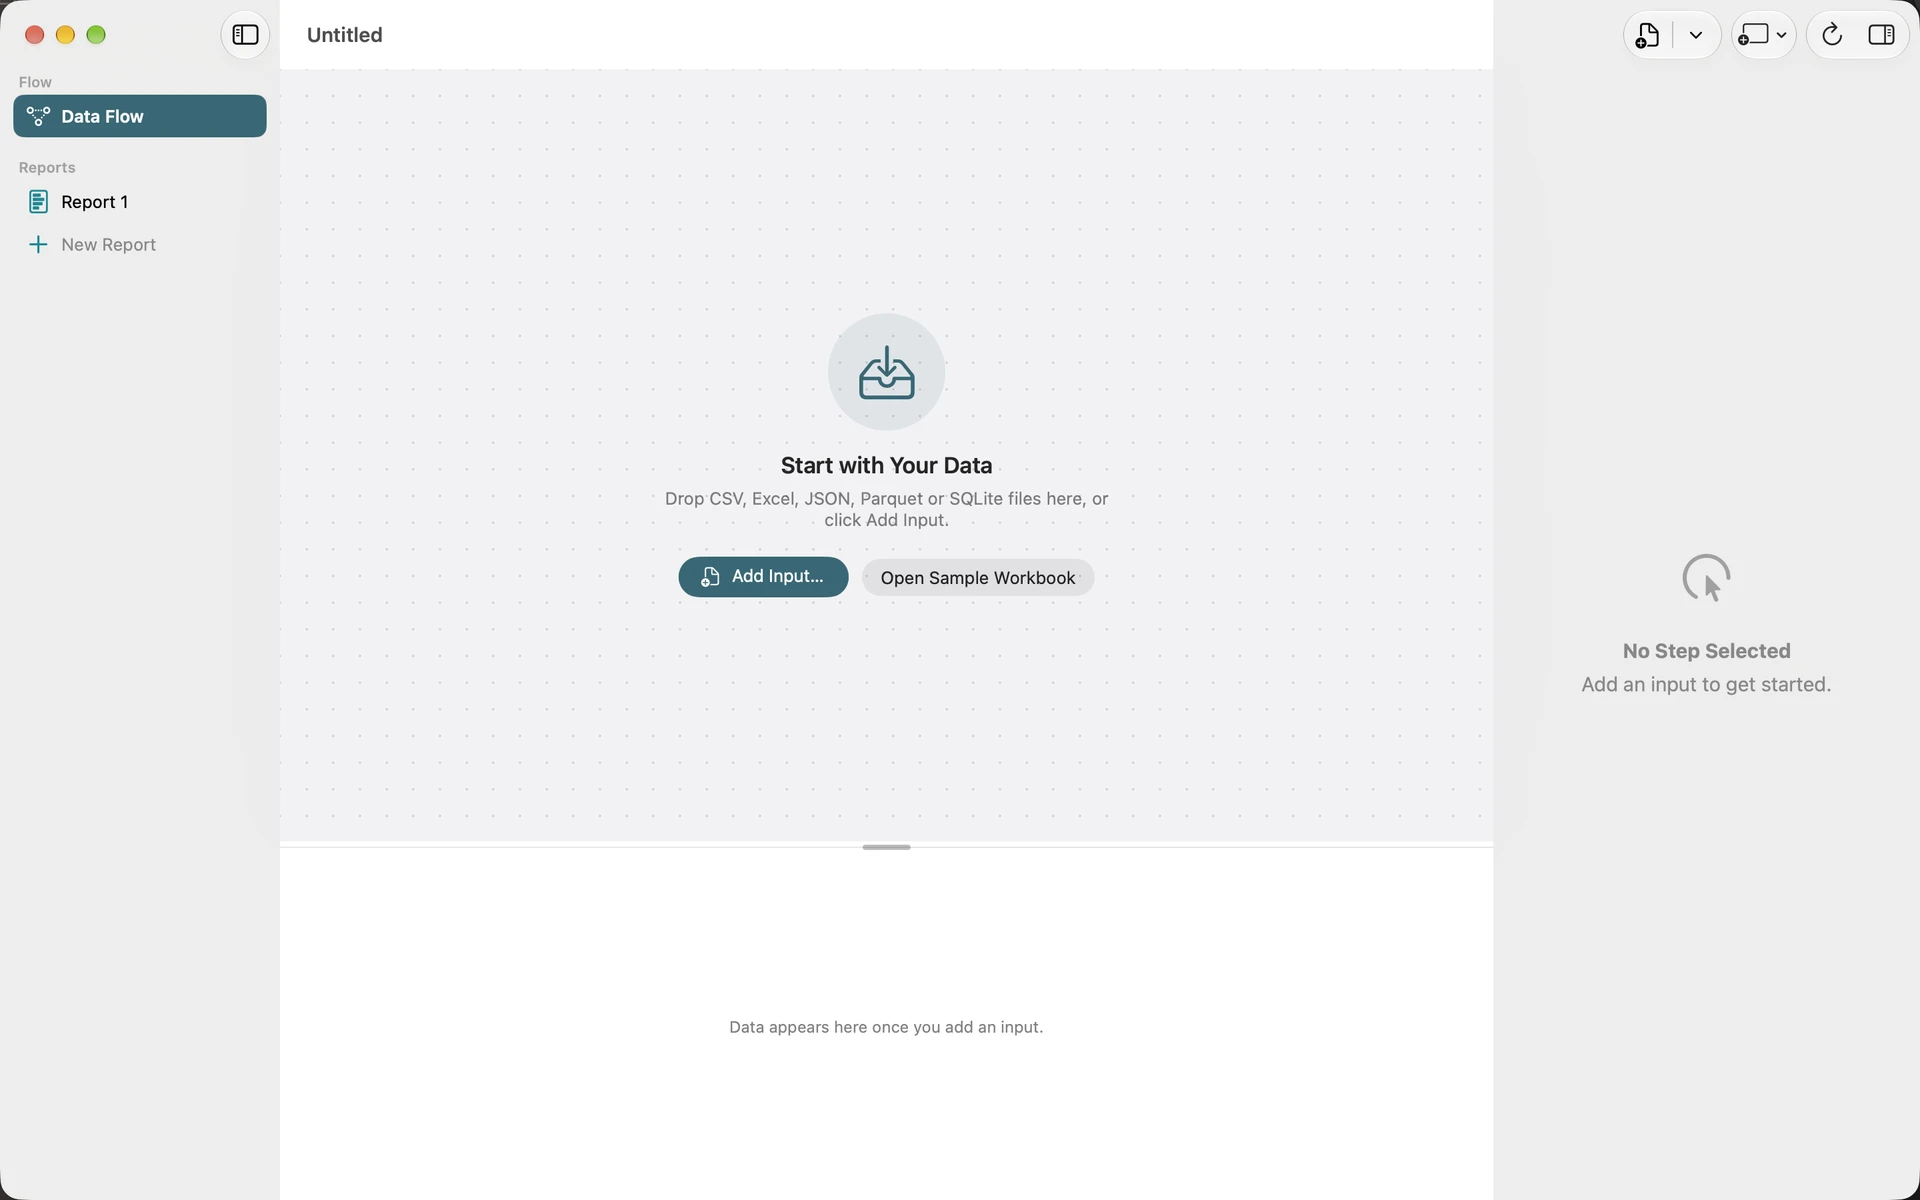
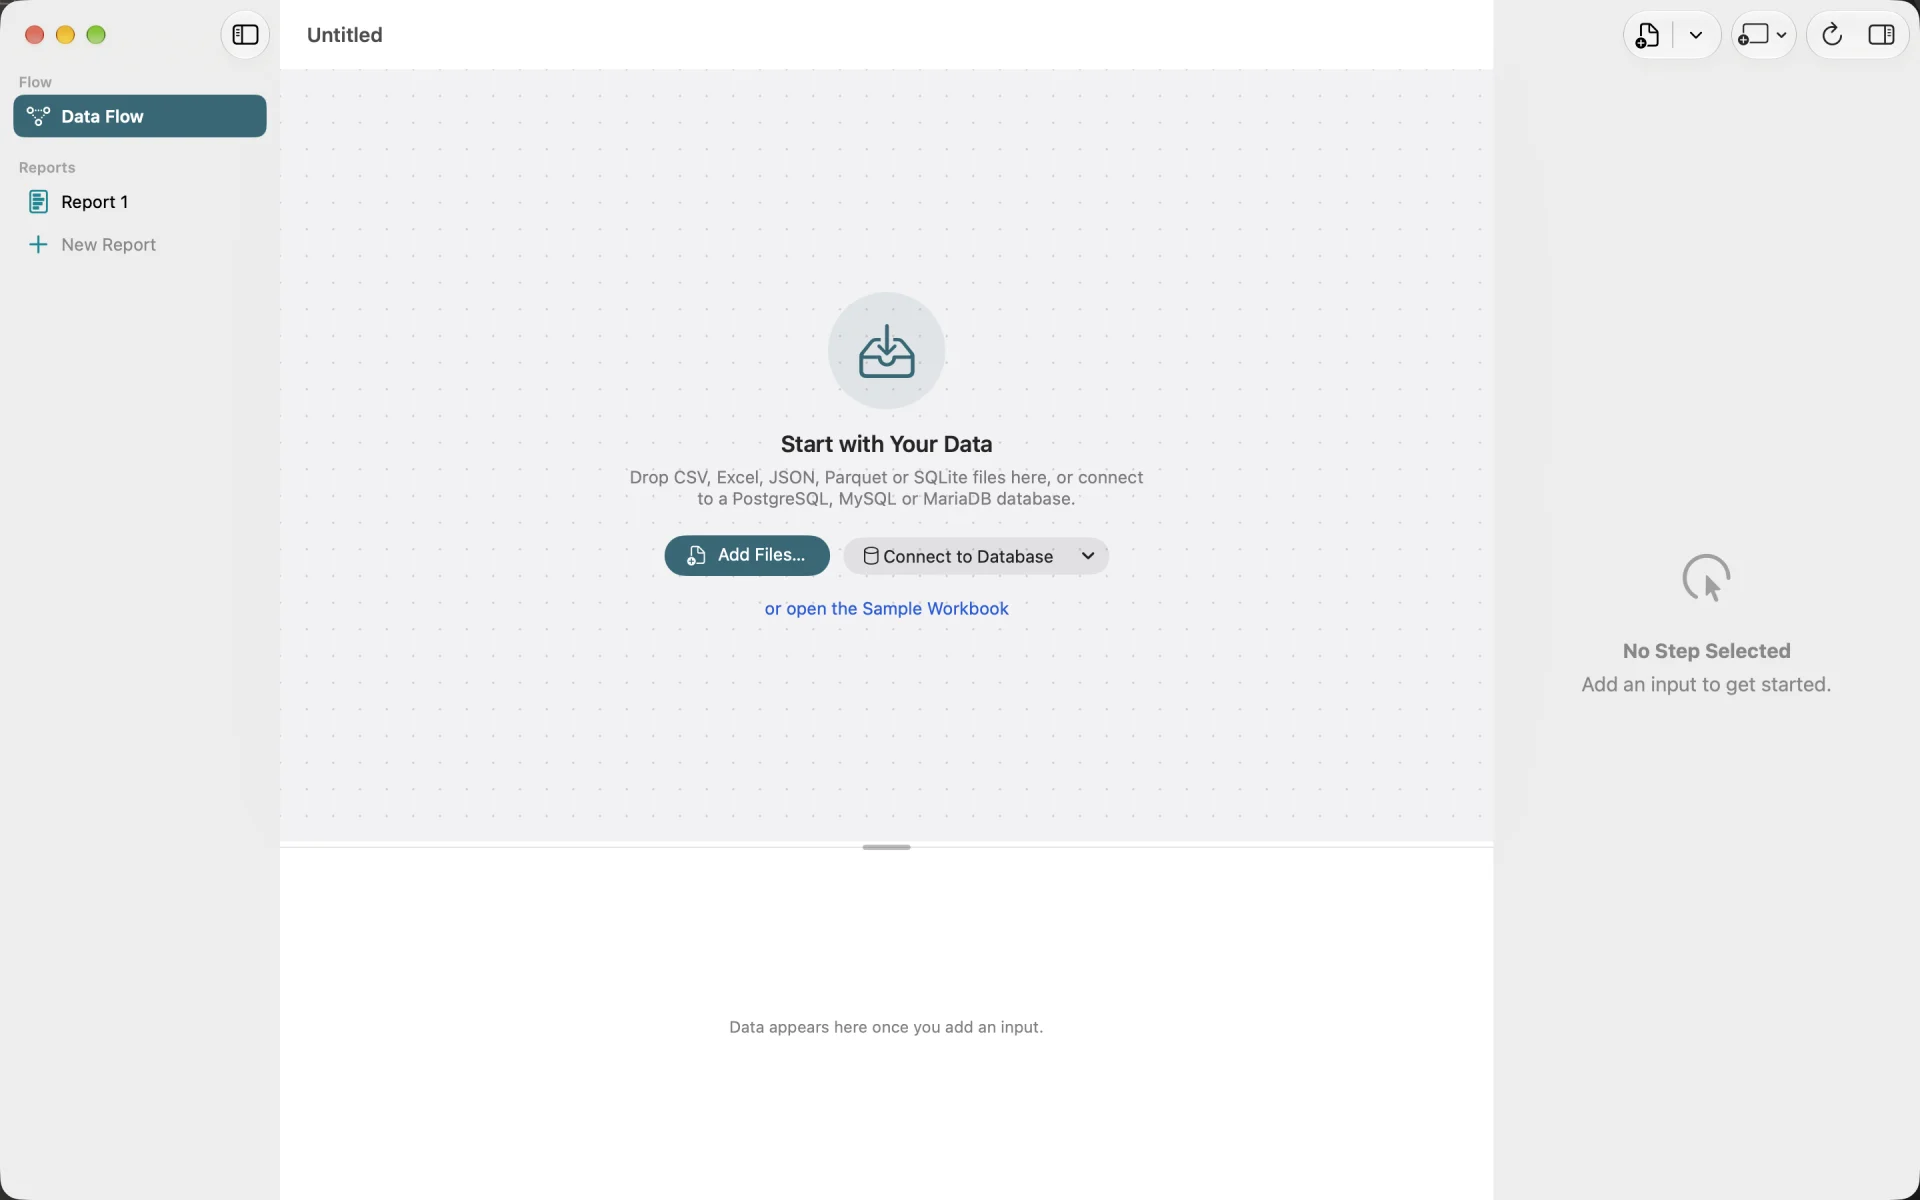
FlectoBI: the empty Flow's Add Files and Connect to Database buttons and the Sample Workbook link; new empty-workbook still

Changed region(s): [[0.3438, 0.2775, 0.5625, 0.5242], [0.5625, 0.37, 0.5938, 0.4008]]

diff --git a/apps/flectobi/guide/getting-started/index.html b/apps/flectobi/guide/getting-started/index.html
@@ -67,7 +67,7 @@
 
 <p>The quickest way to see what FlectoBI does is to open the sample.</p>
 
-<ol><li>Choose <strong>Help › Open Sample Workbook</strong>. On an empty Flow you can also click <strong>Open Sample Workbook</strong>.</li><li>FlectoBI copies the sample files into its own folder and opens <strong>Sales Sample.flectobi</strong>.</li><li>Click <strong>Data Flow</strong> in the sidebar to see the Flow. Click <strong>Sales Dashboard</strong> under Reports to see the Report.</li></ol>
+<ol><li>Choose <strong>Help › Open Sample Workbook</strong>. On an empty Flow you can also click <strong>or open the Sample Workbook</strong>, under the two buttons.</li><li>FlectoBI copies the sample files into its own folder and opens <strong>Sales Sample.flectobi</strong>.</li><li>Click <strong>Data Flow</strong> in the sidebar to see the Flow. Click <strong>Sales Dashboard</strong> under Reports to see the Report.</li></ol>
 
 <p>The sample needs no permissions and no internet connection. It holds 3,000 orders, 12 products and 40 stores. If you change the sample Workbook, FlectoBI keeps your changes the next time you open it.</p>
 
@@ -79,7 +79,7 @@
 
 <p>A new Workbook starts with an empty Flow and one empty Report named Report 1.</p>
 
-<figure class="figure figure-landscape figure-wide"><img src="workbook-empty.webp" alt="A new Workbook: an empty Flow with the message Start with Your Data and the Add Input button." width="1920" height="1200" loading="lazy"><figcaption>A new Workbook opens with an empty Flow.</figcaption></figure>
+<figure class="figure figure-landscape figure-wide"><img src="workbook-empty.webp" alt="A new Workbook: an empty Flow with the message Start with Your Data, the Add Files and Connect to Database buttons, and a link to the Sample Workbook." width="1920" height="1200" loading="lazy"><figcaption>A new Workbook opens with an empty Flow.</figcaption></figure>
 
 <h2 id="your-first-flow-from-a-csv">Your first Flow from a CSV</h2>
 

diff --git a/apps/flectobi/guide/databases/index.html b/apps/flectobi/guide/databases/index.html
@@ -59,7 +59,7 @@
 
 <h2 id="add-a-database-input">Add a database Input</h2>
 
-<ol><li>Click <strong>Add Input</strong> in the toolbar and choose <strong>New PostgreSQL Input…</strong> or <strong>New MySQL Input…</strong>. The same items are in the <strong>Flow</strong> menu. Use the MySQL one for MariaDB too.</li><li>Fill in <strong>Host</strong>, <strong>Port</strong>, <strong>Database</strong> and <strong>User</strong>. The port starts as 5432 for PostgreSQL and 3306 for MySQL.</li><li>Choose the <strong>SSL</strong> mode. See below.</li><li>Type the <strong>Password</strong>.</li><li>Click <strong>Test Connection</strong>. FlectoBI tells you how many tables and views it found.</li><li>Choose what to read, then click <strong>Add Input</strong>.</li></ol>
+<ol><li>Click <strong>Add Input</strong> in the toolbar and choose <strong>New PostgreSQL Input…</strong> or <strong>New MySQL Input…</strong>. The same items are in the <strong>Flow</strong> menu. Use the MySQL one for MariaDB too. On an empty Flow, click <strong>Connect to Database</strong> and choose <strong>PostgreSQL…</strong> or <strong>MySQL or MariaDB…</strong>.</li><li>Fill in <strong>Host</strong>, <strong>Port</strong>, <strong>Database</strong> and <strong>User</strong>. The port starts as 5432 for PostgreSQL and 3306 for MySQL.</li><li>Choose the <strong>SSL</strong> mode. See below.</li><li>Type the <strong>Password</strong>.</li><li>Click <strong>Test Connection</strong>. FlectoBI tells you how many tables and views it found.</li><li>Choose what to read, then click <strong>Add Input</strong>.</li></ol>
 
 <div class="figure-row">
 <figure class="figure figure-landscape figure-wide"><img src="sheet-postgres.webp" alt="The New PostgreSQL Input sheet with host, port, database, user, SSL and password fields and the Test Connection button." width="1920" height="1200" loading="lazy"></figure>

diff --git a/apps/flectobi/tutorials/explore-the-sales-sample/index.html b/apps/flectobi/tutorials/explore-the-sales-sample/index.html
@@ -63,7 +63,7 @@
 
 <h2 id="open-the-sample">Open the sample</h2>
 
-<ol><li>Choose <strong>Help</strong>, then <strong>Open Sample Workbook</strong>. On a new, empty Flow you can also click <strong>Open Sample Workbook</strong>.</li><li>A window called Sales Sample opens. FlectoBI copies the sample files into its own Documents folder first, so you cannot damage anything.</li></ol>
+<ol><li>Choose <strong>Help</strong>, then <strong>Open Sample Workbook</strong>. On a new, empty Flow you can also click <strong>or open the Sample Workbook</strong>.</li><li>A window called Sales Sample opens. FlectoBI copies the sample files into its own Documents folder first, so you cannot damage anything.</li></ol>
 
 <p>The window has three areas. The sidebar on the left lists the <strong>Data Flow</strong> and the Reports. The workspace is in the middle. The inspector on the right shows the options of whatever is selected. If the inspector is hidden, press <strong>Option-Command-I</strong>.</p>
 

diff --git a/content/flectobi/guide/getting-started.md b/content/flectobi/guide/getting-started.md
@@ -19,7 +19,7 @@ There is no account and no sign-in. Your data stays on your Mac.
 
 The quickest way to see what FlectoBI does is to open the sample.
 
-1. Choose **Help › Open Sample Workbook**. On an empty Flow you can also click **Open Sample Workbook**.
+1. Choose **Help › Open Sample Workbook**. On an empty Flow you can also click **or open the Sample Workbook**, under the two buttons.
 2. FlectoBI copies the sample files into its own folder and opens **Sales Sample.flectobi**.
 3. Click **Data Flow** in the sidebar to see the Flow. Click **Sales Dashboard** under Reports to see the Report.
 
@@ -35,7 +35,7 @@ Each Workbook opens in its own window with three areas.
 
 A new Workbook starts with an empty Flow and one empty Report named Report 1.
 
-![A new Workbook: an empty Flow with the message Start with Your Data and the Add Input button.](workbook-empty.webp "A new Workbook opens with an empty Flow.")
+![A new Workbook: an empty Flow with the message Start with Your Data, the Add Files and Connect to Database buttons, and a link to the Sample Workbook.](workbook-empty.webp "A new Workbook opens with an empty Flow.")
 
 ## Your first Flow from a CSV
 

diff --git a/content/flectobi/guide/databases.md b/content/flectobi/guide/databases.md
@@ -9,7 +9,7 @@ FlectoBI can read from PostgreSQL, MySQL and MariaDB. It only reads. It never wr
 
 ## Add a database Input
 
-1. Click **Add Input** in the toolbar and choose **New PostgreSQL Input…** or **New MySQL Input…**. The same items are in the **Flow** menu. Use the MySQL one for MariaDB too.
+1. Click **Add Input** in the toolbar and choose **New PostgreSQL Input…** or **New MySQL Input…**. The same items are in the **Flow** menu. Use the MySQL one for MariaDB too. On an empty Flow, click **Connect to Database** and choose **PostgreSQL…** or **MySQL or MariaDB…**.
 2. Fill in **Host**, **Port**, **Database** and **User**. The port starts as 5432 for PostgreSQL and 3306 for MySQL.
 3. Choose the **SSL** mode. See below.
 4. Type the **Password**.

diff --git a/content/flectobi/tutorials/explore-the-sales-sample.md b/content/flectobi/tutorials/explore-the-sales-sample.md
@@ -13,7 +13,7 @@ The Sales Sample is a Workbook that comes with FlectoBI. It holds a small shop c
 
 ## Open the sample
 
-1. Choose **Help**, then **Open Sample Workbook**. On a new, empty Flow you can also click **Open Sample Workbook**.
+1. Choose **Help**, then **Open Sample Workbook**. On a new, empty Flow you can also click **or open the Sample Workbook**.
 2. A window called Sales Sample opens. FlectoBI copies the sample files into its own Documents folder first, so you cannot damage anything.
 
 The window has three areas. The sidebar on the left lists the **Data Flow** and the Reports. The workspace is in the middle. The inspector on the right shows the options of whatever is selected. If the inspector is hidden, press **Option-Command-I**.
